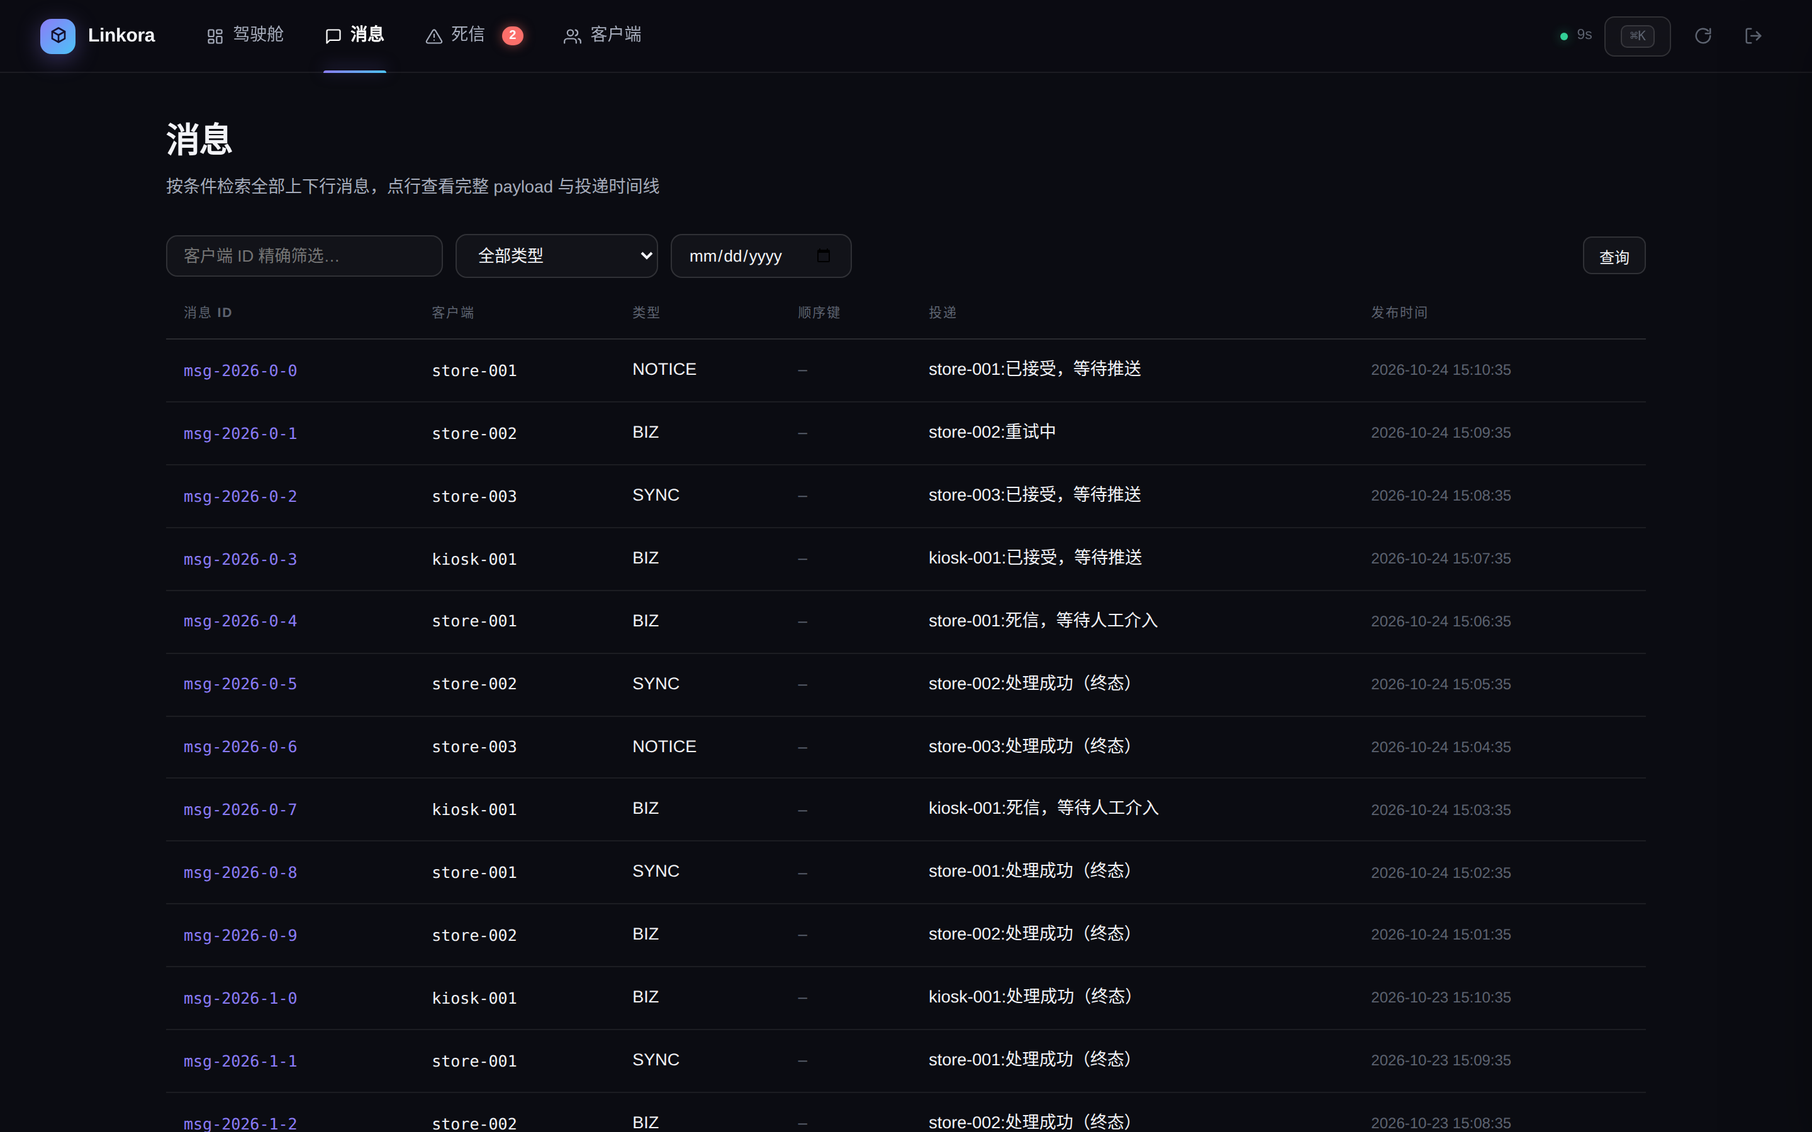
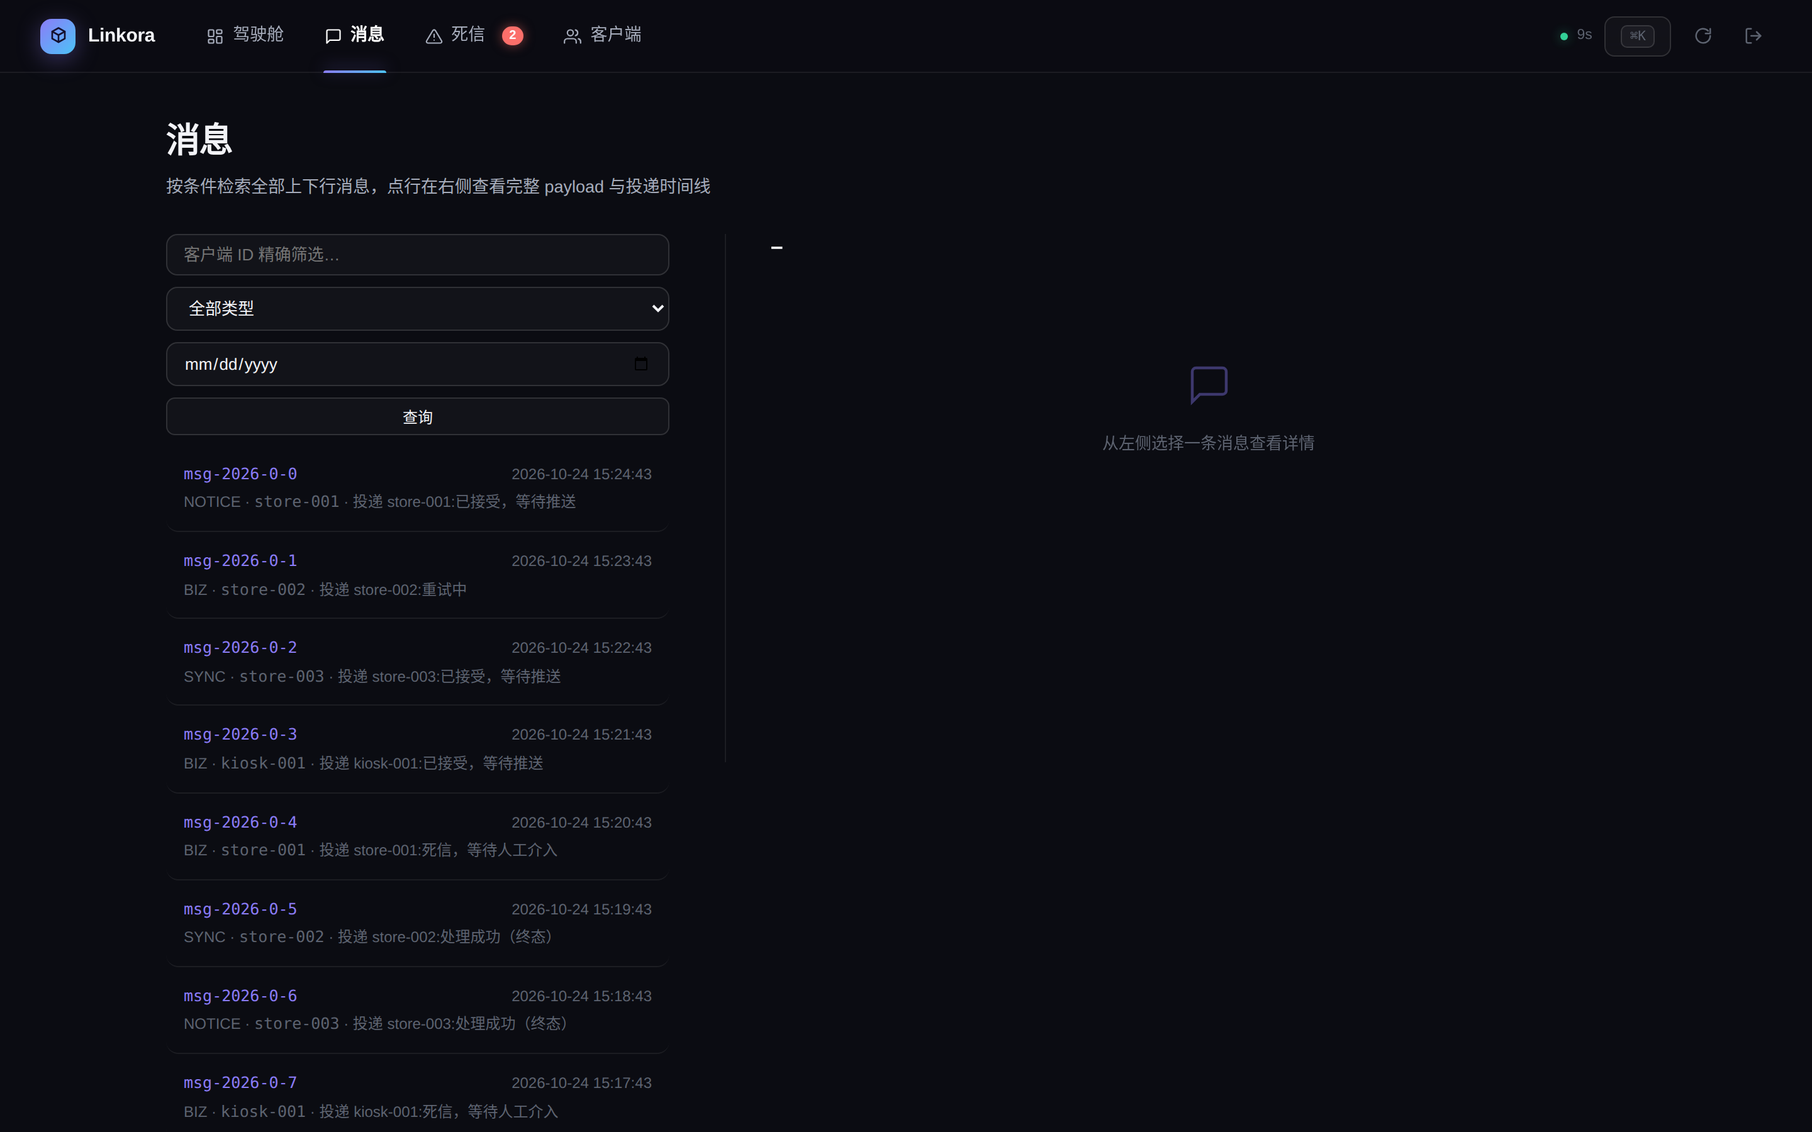
feat：登录页左右分栏 + 消息详情主从双栏（宽屏去抽屉）
- 登录页：左侧品牌叙事区（logo、产品价值点三行、极光漂移动效、装饰指标剪影），
  右侧登录卡；<1100px 自动隐藏左栏
- 消息页重构为主从双栏：左列筛选+行式列表（400px），右侧详情区直出
  （sticky 跟随滚动），无遮罩不遮挡、可连续对比，选中行 accent 高亮
- 窄屏 <1100px 详情自动降级为全屏覆盖层（原抽屉动效保留为降级形态）
- 驾驶舱/死信工单「详情」统一走 viewMessage 跳转消息页并选中该条
- 移除抽屉组件；Esc 关闭覆盖层；messageId 复制入口迁移至详情标题

diff --git a/linkora-admin-console/src/main/resources/linkora-admin-console/index.html b/linkora-admin-console/src/main/resources/linkora-admin-console/index.html
@@ -177,14 +177,29 @@ tbody tr.rowlink:hover{background:var(--raised)}
 .detail-rows.on{display:block}
 footer.ver{margin-top:30px;text-align:center;font-size:11.5px;color:var(--ink-3)}
 
-/* ───── 抽屉 ───── */
-.mask{position:fixed;inset:0;background:rgba(4,4,6,.62);backdrop-filter:blur(3px);opacity:0;pointer-events:none;transition:opacity .22s;z-index:40}
-.mask.on{opacity:1;pointer-events:auto}
-.drawer{position:fixed;top:0;right:-490px;width:470px;max-width:94vw;height:100vh;background:#0D0D10;border-left:1px solid var(--hair-2);box-shadow:var(--shadow-lift);transition:right .28s cubic-bezier(.3,.9,.3,1);z-index:45;display:flex;flex-direction:column}
-.drawer.on{right:0}
-.drawer-head{padding:22px 26px 16px;border-bottom:1px solid var(--hair)}
-.drawer-head h3{font-size:14.5px;font-weight:600;font-family:var(--mono);color:#fff}
-.drawer-body{flex:1;overflow-y:auto;padding:22px 26px 32px}
+/* ───── 消息主从双栏 ───── */
+.msg-split{display:grid;grid-template-columns:400px 1fr;gap:44px;align-items:start}
+.vstack{flex-direction:column;align-items:stretch;gap:9px}
+.mlist{margin-top:4px}
+.mrow{padding:13px 14px;border-bottom:1px solid var(--hair);border-radius:10px;cursor:pointer;transition:background .13s}
+.mrow:hover{background:var(--raised)}
+.mrow.sel{background:var(--accent-tint);box-shadow:inset 0 0 0 1px var(--accent-border)}
+.mrow-top{display:flex;align-items:baseline;justify-content:space-between;gap:10px}
+.mrow-top .mid{font-family:var(--mono);font-size:12.5px;color:var(--accent)}
+.mrow-sub{margin-top:3px;font-size:12px;color:var(--ink-3);white-space:nowrap;overflow:hidden;text-overflow:ellipsis}
+.mrow-sub .mono{color:var(--ink-3)}
+.msg-detail{position:sticky;top:86px;max-height:calc(100vh - 130px);overflow-y:auto;border-left:1px solid var(--hair);padding-left:36px;min-height:420px}
+.md-head{display:flex;align-items:flex-start;gap:12px;margin-bottom:20px}
+.md-head h3{font-size:14.5px;font-weight:600;font-family:var(--mono);color:#fff}
+.md-close{display:none;margin-left:auto}
+@media (max-width:1100px){
+  .msg-split{grid-template-columns:1fr}
+  .msg-detail{position:fixed;inset:0;z-index:45;background:#0D0D10;padding:22px 26px;max-height:none;border-left:none;transform:translateX(100%);transition:transform .28s cubic-bezier(.3,.9,.3,1);min-height:0}
+  .msg-detail.on{transform:none}
+  .md-close{display:flex}
+}
+
+/* ───── 详情内容组件 ───── */
 .kv{display:grid;grid-template-columns:88px 1fr;gap:8px 12px;font-size:13px;margin-bottom:22px}
 .kv dt{color:var(--ink-3)}.kv dd{color:var(--ink)}
 .sect-lbl{font-size:11px;font-weight:600;color:var(--ink-3);letter-spacing:.12em;margin:24px 0 10px;display:flex;align-items:center;gap:8px}
@@ -235,12 +250,28 @@ footer.ver{margin-top:30px;text-align:center;font-size:11.5px;color:var(--ink-3)
 .k-item .k-hint{margin-left:auto;font-size:11px;color:var(--ink-3);font-family:var(--mono)}
 .k-empty{padding:24px;text-align:center;color:var(--ink-3);font-size:13px}
 
-/* ───── 登录 ───── */
-#login{position:fixed;inset:0;display:none;align-items:center;justify-content:center;z-index:50}
+/* ───── 登录：左右分栏 ───── */
+#login{position:fixed;inset:0;display:none;z-index:50}
 #login.on{display:flex}
-#login .aurora::before,#login .aurora::after{content:"";position:absolute;width:560px;height:560px;border-radius:50%;filter:blur(150px);opacity:.15}
-#login .aurora::before{background:#8B7CF8;top:-180px;left:10%}
-#login .aurora::after{background:#4CC3F7;bottom:-200px;right:8%}
+.login-side{flex:1;position:relative;display:flex;align-items:center;padding:0 7%;overflow:hidden;border-right:1px solid var(--hair)}
+.aurora-blob{position:absolute;width:520px;height:520px;border-radius:50%;filter:blur(140px);opacity:.14;pointer-events:none}
+.b1{background:#8B7CF8;top:-160px;left:-60px;animation:drift1 18s ease-in-out infinite alternate}
+.b2{background:#4CC3F7;bottom:-200px;right:6%;animation:drift2 22s ease-in-out infinite alternate}
+@keyframes drift1{to{transform:translate(120px,80px) scale(1.15)}}
+@keyframes drift2{to{transform:translate(-100px,-60px) scale(1.1)}}
+.side-inner{position:relative;max-width:540px}
+.side-brand{display:flex;align-items:center;gap:12px;margin-bottom:28px}
+.side-brand .brand-mark{width:38px;height:38px;border-radius:11px}
+.side-brand b{font-size:17px;font-weight:650}
+.login-side h2{font-size:32px;font-weight:700;letter-spacing:-.025em;line-height:1.32;margin-bottom:26px}
+.feat{display:flex;align-items:center;gap:13px;padding:9px 0;color:var(--ink-2);font-size:13.5px}
+.f-ico{width:30px;height:30px;border-radius:9px;background:var(--accent-tint);box-shadow:inset 0 0 0 1px var(--accent-border);color:var(--accent);display:flex;align-items:center;justify-content:center;flex:none}
+.f-ico svg{width:14px;height:14px}
+.silhouette{display:flex;gap:40px;margin-top:46px;padding-top:26px;border-top:1px solid var(--hair)}
+.s-metric span{display:block;font-size:10.5px;color:var(--ink-3);letter-spacing:.1em;text-transform:uppercase;margin-bottom:4px}
+.s-metric b{font-family:var(--mono);font-size:20px;font-weight:650;color:var(--ink-2)}
+.login-panel{width:460px;flex:none;display:flex;align-items:center;justify-content:center;padding:40px;background:rgba(255,255,255,.012)}
+@media (max-width:1100px){.login-side{display:none}.login-panel{width:100%;border-left:none}}
 .login-card{position:relative;width:392px;background:rgba(15,15,18,.85);backdrop-filter:blur(18px);border:1px solid var(--hair-2);border-radius:20px;box-shadow:var(--shadow-lift);padding:42px 36px 34px;text-align:center}
 .login-mark{width:56px;height:56px;border-radius:16px;background:var(--accent-grad);margin:0 auto 20px;display:flex;align-items:center;justify-content:center;color:#14102E;box-shadow:0 8px 32px rgba(139,124,248,.4)}
 .login-card h1{font-size:20px;font-weight:650}
@@ -256,8 +287,8 @@ footer.ver{margin-top:30px;text-align:center;font-size:11.5px;color:var(--ink-3)
 .eye svg{width:15px;height:15px;display:block}
 @keyframes shakeX{0%,100%{transform:none}20%,60%{transform:translateX(-7px)}40%,80%{transform:translateX(7px)}}
 .login-card.shake{animation:shakeX .38s}
-#dTitle{cursor:pointer;transition:color .15s}
-#dTitle:hover{color:var(--accent)}
+#mdTitle{cursor:pointer;transition:color .15s}
+#mdTitle:hover{color:var(--accent)}
 
 @media (max-width:1100px){.duo{grid-template-columns:1fr}.feed{border-left:none;padding-left:0}.client-grid{grid-template-columns:1fr}.metric{padding:0 26px}}
 </style>
@@ -265,8 +296,35 @@ footer.ver{margin-top:30px;text-align:center;font-size:11.5px;color:var(--ink-3)
 <body>
 
 <div id="login" class="on">
-  <div class="aurora"></div>
-  <div class="login-card">
+  <div class="login-side">
+    <div class="aurora-blob b1"></div><div class="aurora-blob b2"></div>
+    <div class="side-inner">
+      <div class="side-brand">
+        <div class="brand-mark"><svg width="19" height="19" viewBox="0 0 24 24" fill="none" stroke="currentColor" stroke-width="2.1" stroke-linecap="round" stroke-linejoin="round"><path d="M12 2l8 4.5v9L12 20l-8-4.5v-9L12 2z"/><path d="M12 11l8-4.5M12 11v9M12 11L4 6.5"/></svg></div>
+        <b>Linkora</b>
+      </div>
+      <h2>面向线上服务与线下客户端的<br>可靠通信底座</h2>
+      <div class="feat">
+        <span class="f-ico"><svg viewBox="0 0 24 24" fill="none" stroke="currentColor" stroke-width="2" stroke-linecap="round" stroke-linejoin="round"><path d="M19 21H5a2 2 0 0 1-2-2V5a2 2 0 0 1 2-2h11l5 5v11a2 2 0 0 1-2 2z"/><polyline points="17 21 17 13 7 13 7 21"/><polyline points="7 3 7 8 15 8"/></svg></span>
+        先落库再推送，客户端断线自动补发，不丢消息
+      </div>
+      <div class="feat">
+        <span class="f-ico"><svg viewBox="0 0 24 24" fill="none" stroke="currentColor" stroke-width="2" stroke-linecap="round" stroke-linejoin="round"><line x1="3" y1="12" x2="21" y2="12"/><polyline points="9 18 3 12 9 6"/></svg></span>
+        顺序键严格保序，重放与重试零乱序
+      </div>
+      <div class="feat">
+        <span class="f-ico"><svg viewBox="0 0 24 24" fill="none" stroke="currentColor" stroke-width="2" stroke-linecap="round" stroke-linejoin="round"><path d="M10.3 3.9L1.8 18a2 2 0 0 0 1.7 3h17a2 2 0 0 0 1.7-3L13.7 3.9a2 2 0 0 0-3.4 0z"/><line x1="12" y1="9" x2="12" y2="13"/><line x1="12" y1="17" x2="12.01" y2="17"/></svg></span>
+        死信兜底 + 工单流人工处置，全程留痕
+      </div>
+      <div class="silhouette">
+        <div class="s-metric"><span>在线客户端</span><b>3 / 5</b></div>
+        <div class="s-metric"><span>今日发布</span><b>1,284</b></div>
+        <div class="s-metric"><span>投递成功率</span><b>99.98%</b></div>
+      </div>
+    </div>
+  </div>
+  <div class="login-panel">
+    <div class="login-card">
     <div class="login-mark">
       <svg width="27" height="27" viewBox="0 0 24 24" fill="none" stroke="currentColor" stroke-width="2.1" stroke-linecap="round" stroke-linejoin="round"><path d="M12 2l8 4.5v9L12 20l-8-4.5v-9L12 2z"/><path d="M12 11l8-4.5M12 11v9M12 11L4 6.5"/></svg>
     </div>
@@ -281,6 +339,7 @@ footer.ver{margin-top:30px;text-align:center;font-size:11.5px;color:var(--ink-3)
     <div class="login-err" id="loginErr"></div>
     <button class="btn btn-primary btn-block" onclick="doLogin()">进入控制台</button>
     <p class="login-tip">令牌由服务端 linkora.admin-console.token 配置</p>
+    </div>
   </div>
 </div>
 
@@ -344,20 +403,37 @@ footer.ver{margin-top:30px;text-align:center;font-size:11.5px;color:var(--ink-3)
   <div class="page" id="v-messages">
     <div class="page-head">
       <h1>消息</h1>
-      <p class="desc">按条件检索全部上下行消息，点行查看完整 payload 与投递时间线</p>
+      <p class="desc">按条件检索全部上下行消息，点行在右侧查看完整 payload 与投递时间线</p>
     </div>
-    <div class="filterbar">
-      <input class="search" id="mSearch" placeholder="客户端 ID 精确筛选…" onkeydown="if(event.key==='Enter')loadMessages()">
-      <select id="mType"><option value="">全部类型</option><option>NOTICE</option><option>BIZ</option><option>SYNC</option><option>linkora.admin.result</option></select>
-      <input type="date" id="mBegin" onchange="loadMessages()">
-      <span style="flex:1"></span>
-      <button class="btn btn-ghost btn-sm" onclick="loadMessages()">查询</button>
-    </div>
-    <table><thead><tr><th>消息 ID</th><th>客户端</th><th>类型</th><th>顺序键</th><th>投递</th><th>发布时间</th></tr></thead>
-      <tbody id="msgRows"></tbody></table>
-    <div class="pager"><span class="num" id="mPageInfo"></span>
-      <button id="mPrev" onclick="pageMsgs(-1)">‹ 上一页</button>
-      <button id="mNext" onclick="pageMsgs(1)">下一页 ›</button>
+    <div class="msg-split">
+      <div class="msg-list">
+        <div class="filterbar vstack">
+          <input class="search" style="width:100%" id="mSearch" placeholder="客户端 ID 精确筛选…" onkeydown="if(event.key==='Enter')loadMessages()">
+          <select id="mType"><option value="">全部类型</option><option>NOTICE</option><option>BIZ</option><option>SYNC</option><option>linkora.admin.result</option></select>
+          <input type="date" id="mBegin" onchange="loadMessages()">
+          <button class="btn btn-ghost btn-sm" onclick="loadMessages()">查询</button>
+        </div>
+        <div id="msgRows" class="mlist"></div>
+        <div class="pager" style="justify-content:center">
+          <button id="mPrev" onclick="pageMsgs(-1)">‹ 上一页</button>
+          <span class="num" id="mPageInfo"></span>
+          <button id="mNext" onclick="pageMsgs(1)">下一页 ›</button>
+        </div>
+      </div>
+      <div class="msg-detail" id="msgDetail">
+        <div class="md-head">
+          <div><h3 class="mono" id="mdTitle" onclick="copyText(this.textContent)" title="点击复制">—</h3><span class="weak" id="mdSub"></span></div>
+          <button class="icon-btn md-close" onclick="closeMsgDetail()" title="关闭">
+            <svg viewBox="0 0 24 24" fill="none" stroke="currentColor" stroke-width="2" stroke-linecap="round"><line x1="18" y1="6" x2="6" y2="18"/><line x1="6" y1="6" x2="18" y2="18"/></svg>
+          </button>
+        </div>
+        <div id="mdBody">
+          <div class="empty">
+            <svg viewBox="0 0 24 24" fill="none" stroke="currentColor" stroke-width="1.5" stroke-linecap="round"><path d="M21 15a2 2 0 0 1-2 2H7l-4 4V5a2 2 0 0 1 2-2h14a2 2 0 0 1 2 2z"/></svg>
+            <p>从左侧选择一条消息查看详情</p>
+          </div>
+        </div>
+      </div>
     </div>
   </div>
 
@@ -385,17 +461,6 @@ footer.ver{margin-top:30px;text-align:center;font-size:11.5px;color:var(--ink-3)
     <footer class="ver">Linkora Admin Console · v0.4.0 · 数据每 10 秒自动刷新</footer>
   </div>
 </div>
-
-<div class="mask" id="mask" onclick="closeAll()"></div>
-<aside class="drawer" id="drawer">
-  <div class="drawer-head">
-    <div><h3 id="dTitle">—</h3><span class="weak" id="dSub"></span></div>
-    <button class="icon-btn" style="margin-left:auto" onclick="closeAll()">
-      <svg viewBox="0 0 24 24" fill="none" stroke="currentColor" stroke-width="2" stroke-linecap="round"><line x1="18" y1="6" x2="6" y2="18"/><line x1="6" y1="6" x2="18" y2="18"/></svg>
-    </button>
-  </div>
-  <div class="drawer-body" id="dBody"></div>
-</aside>
 
 <div class="modal" id="modal">
   <div class="m-mask" onclick="closeModal()"></div>
@@ -604,7 +669,7 @@ function loadTasks(clients, pending, dead){
         + '<span>重试 ' + d.retryCount + ' 次 · 更新于 ' + esc(d.updatedAt || "—") + '</span></div>'
         + '</div>'
         + '<div class="t-acts">'
-        + '<button class="btn btn-ghost btn-sm" onclick="openMessage(\'' + esc(d.messageId) + '\')">详情</button>'
+        + '<button class="btn btn-ghost btn-sm" onclick="viewMessage(\'' + esc(d.messageId) + '\')">详情</button>'
         + (bad
           ? '<button class="btn btn-tint btn-sm" onclick="cockpitRetry(\'' + esc(t.clientId) + '\',\'' + esc(d.messageId) + '\')">重放</button>'
           : '<button class="btn btn-outline btn-sm" onclick="cockpitSkip(\'' + esc(t.clientId) + '\',\'' + esc(d.messageId) + '\')">跳过</button>')
@@ -679,30 +744,36 @@ function loadMessages(){
     + (clientId ? "&clientId=" + encodeURIComponent(clientId) : "")
     + (type ? "&type=" + encodeURIComponent(type) : "")
     + (begin ? "&begin=" + new Date(begin + "T00:00:00").getTime() : "");
-  rowSkeleton("msgRows", 6);
+  boxSkeleton("msgRows");
   api("api/messages" + q).then(function(list){
     list = list || [];
     document.getElementById("msgRows").innerHTML = list.length ? list.map(function(m){
-      return '<tr class="rowlink" onclick="openMessage(\'' + esc(m.messageId) + '\')">'
-        + '<td class="mono" style="color:var(--accent)">' + esc(m.messageId) + '</td>'
-        + '<td class="mono">' + esc(m.clientId) + '</td>'
-        + '<td>' + esc(m.messageType) + '</td>'
-        + '<td class="mono weak">' + esc(m.sequenceKey || "—") + '</td>'
-        + '<td class="num">' + esc(m.deliverySummary || "—") + '</td>'
-        + '<td class="weak num">' + esc(m.createdAt) + '</td></tr>';
-    }).join("") : '<tr><td colspan="6"><div class="empty"><p>没有符合条件的消息</p></div></td></tr>';
+      var sel = m.messageId === currentMsgId ? " sel" : "";
+      return '<div class="mrow' + sel + '" onclick="openMessage(\'' + esc(m.messageId) + '\')">'
+        + '<div class="mrow-top"><span class="mid">' + esc(m.messageId) + '</span>'
+        + '<span class="weak num">' + esc(m.createdAt) + '</span></div>'
+        + '<div class="mrow-sub">' + esc(m.messageType) + ' · <span class="mono">' + esc(m.clientId)
+        + '</span> · 投递 ' + esc(m.deliverySummary || "—") + '</div></div>';
+    }).join("") : '<div class="empty"><p>没有符合条件的消息</p></div>';
     document.getElementById("mPageInfo").textContent = "第 " + msgPage + " 页";
     document.getElementById("mPrev").disabled = msgPage <= 1;
     document.getElementById("mNext").disabled = list.length < 20;
   }).catch(showErr);
 }
+var currentMsgId = "";
 function openMessage(id){
-  document.getElementById("dTitle").textContent = id;
-  document.getElementById("dSub").textContent = "";
-  document.getElementById("dBody").innerHTML = '<div class="skeleton" style="width:80%"></div>';
-  openDrawer();
+  currentMsgId = id;
+  var rows = document.querySelectorAll("#msgRows .mrow");
+  for (var i = 0; i < rows.length; i++){
+    rows[i].classList.toggle("sel", rows[i].getAttribute("onclick").indexOf("'" + id + "'") >= 0);
+  }
+  document.getElementById("mdTitle").textContent = id;
+  document.getElementById("mdSub").textContent = "";
+  document.getElementById("mdBody").innerHTML = '<div class="skeleton" style="width:80%"></div>';
+  var detail = document.getElementById("msgDetail");
+  if (window.matchMedia("(max-width:1100px)").matches) detail.classList.add("on");
   api("api/messages/" + encodeURIComponent(id)).then(function(m){
-    document.getElementById("dSub").textContent = (m.messageType || "") + " · 发布于 " + (m.createdAt || "");
+    document.getElementById("mdSub").textContent = (m.messageType || "") + " · 发布于 " + (m.createdAt || "");
     var pretty = m.payload || "";
     if (pretty && pretty.indexOf("{") === 0){
       try { pretty = JSON.stringify(JSON.parse(pretty), null, 2); } catch (e) { /* 保持原文 */ }
@@ -715,10 +786,16 @@ function openMessage(id){
       + "<dt>大小</dt><dd class='num'>" + m.payloadSize + " 字节</dd></div>"
       + '<div class="sect-lbl">PAYLOAD</div><div class="codeblock">' + esc(pretty) + "</div>"
       + '<div class="sect-lbl">投递记录</div>' + deliveryTimeline(m.deliveries || []);
-    document.getElementById("dBody").innerHTML = html;
+    document.getElementById("mdBody").innerHTML = html;
   }).catch(function(e){
-    document.getElementById("dBody").innerHTML = '<div class="empty"><p>' + esc(e.error || "加载失败") + "</p></div>";
+    document.getElementById("mdBody").innerHTML = '<div class="empty"><p>' + esc(e.error || "加载失败") + "</p></div>";
   });
+}
+function viewMessage(id){ go("messages"); openMessage(id); }
+function closeMsgDetail(){
+  if (window.matchMedia("(max-width:1100px)").matches){
+    document.getElementById("msgDetail").classList.remove("on");
+  }
 }
 function deliveryTimeline(deliveries){
   if (!deliveries.length) return '<div class="empty"><p>无投递记录</p></div>';
@@ -765,7 +842,7 @@ function loadDead(){
           + '<span>重试 ' + d.retryCount + ' 次 · 更新于 ' + esc(d.updatedAt || "") + '</span></div>'
           + '</div>'
           + '<div class="t-acts">'
-          + '<button class="btn btn-ghost btn-sm" onclick="openMessage(\'' + esc(d.messageId) + '\')">详情</button>'
+          + '<button class="btn btn-ghost btn-sm" onclick="viewMessage(\'' + esc(d.messageId) + '\')">详情</button>'
           + '<button class="btn btn-tint btn-sm" onclick="deadRetry(\'' + esc(d.messageId) + '\')">重放</button>'
           + '<button class="btn btn-danger-tint btn-sm" onclick="deadSkip(\'' + esc(d.messageId) + '\')">跳过</button>'
           + '</div></div>';
@@ -943,7 +1020,7 @@ document.addEventListener("keydown", function(e){
     document.getElementById("cmdk").classList.contains("on") ? closeCmdk() : openCmdk();
     return;
   }
-  if (e.key === "Escape"){ closeCmdk(); closeAll(); closeModal(); return; }
+  if (e.key === "Escape"){ closeCmdk(); closeMsgDetail(); closeModal(); return; }
   var cmdkOn = document.getElementById("cmdk").classList.contains("on");
   if (cmdkOn && (e.key === "ArrowDown" || e.key === "ArrowUp" || e.key === "Enter")){
     e.preventDefault();
@@ -956,15 +1033,7 @@ document.addEventListener("keydown", function(e){
   }
 });
 
-/* ═════════ 抽屉 / 弹窗 / Toast ═════════ */
-function openDrawer(){
-  document.getElementById("drawer").classList.add("on");
-  document.getElementById("mask").classList.add("on");
-}
-function closeAll(){
-  document.getElementById("drawer").classList.remove("on");
-  document.getElementById("mask").classList.remove("on");
-}
+/* ═════════ 弹窗 / Toast ═════════ */
 var confirmHandler = null, afterHandler = null;
 function confirmOp(title, desc, okLabel, handler, after){
   if (title !== null){
@@ -1003,7 +1072,7 @@ function copyText(s){
   catch (e) { toast("复制失败", "warn"); }
   document.body.removeChild(ta);
 }
-document.getElementById("dTitle").addEventListener("click", function(){
+document.getElementById("mdTitle").addEventListener("click", function(){
   var id = this.textContent;
   if (id && id !== "—") copyText(id);
 });
